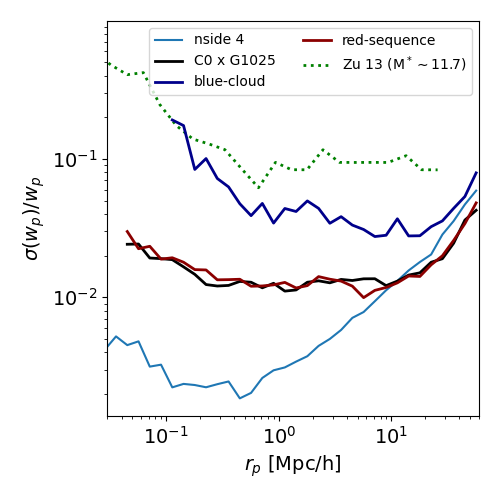
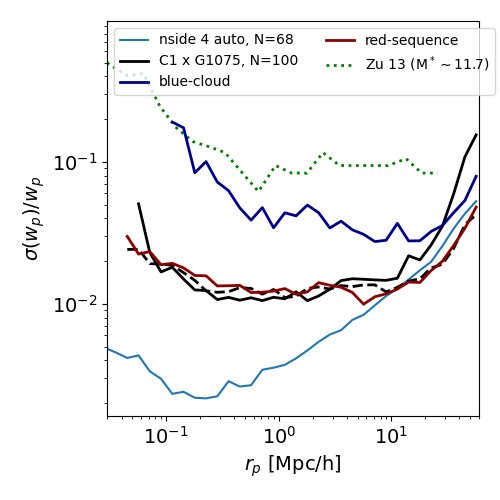
cross-correlation JK

diff --git a/python/plot_JK_wprp.py b/python/plot_JK_wprp.py
@@ -17,6 +17,8 @@ fig_dir  ='../figures/'
 
 d1025 = '../data/_ANY_10.25_Mstar_12.0_0.05_z_0.22_N_3308841_JK_wprp100'
 d1075 = '../data/_ANY_10.75_Mstar_12.0_0.05_z_0.31_N_2802710_JK_wprp100'
+dC0xG1025 = '../data/C0xG1025'
+dC1xG1075 = '../data/C1xG1075'
 
 # "C:\Users\Johan Comparat\Documents\Shared\software\st_mod_data\data"
 # export GIT_STMOD_DATA='/home/idies/workspace/erosim/software/st_mod_data'
@@ -163,7 +165,7 @@ for el in pcf_list_1075 :
 	all_wprp.append(Table.read(el)['wprp'])
 all_wprp = np.array(all_wprp)
 t_ref = Table.read(el)
-plt.plot(t_ref['rp_mid'], all_wprp.std(axis=0)/all_wprp.mean(axis=0), label='nside 4')
+plt.plot(t_ref['rp_mid'], all_wprp.std(axis=0)/all_wprp.mean(axis=0), label='nside 4 auto, N='+str(len(pcf_list_1075)))
 
 # pcf_list_1075 = np.array( glob.glob( os.path.join( d1075, '*NSIDE_08*.fits' )))
 # all_wprp = []
@@ -173,9 +175,17 @@ plt.plot(t_ref['rp_mid'], all_wprp.std(axis=0)/all_wprp.mean(axis=0), label='nsi
 # t_ref = Table.read(el)
 # plt.plot(t_ref['rp_mid'], all_wprp.std(axis=0)/all_wprp.mean(axis=0), label='nside 8')
 
+pcf_list_1075 = np.array( glob.glob( os.path.join( dC1xG1075, '*NSIDE_04*.fits' )))
+all_wprp = []
+for el in pcf_list_1075 :
+	all_wprp.append(Table.read(el)['wprp'])
+all_wprp = np.array(all_wprp)
+t_ref = Table.read(el)
+plt.plot(t_ref['rp_mid'], all_wprp.std(axis=0)/all_wprp.mean(axis=0), lw=2,  ls='solid', label='C1 x G1075, N='+str(len(pcf_list_1075)), color='black')
+
 t_wp = CxG["S1_ANY_10.75"]
 f_err = t_wp['wprp_JK_std']/t_wp['wprp_JK_mean']
-plt.plot(t_wp['rp_mid'], f_err, lw=2,  ls='solid', label='C0 x G1025', color='black')
+plt.plot(t_wp['rp_mid'], f_err, lw=2,  ls='dashed', color='black') # , label='C0 x G1025'
 t_wp = CxG["S1_BC_10.75"]
 f_err = t_wp['wprp_JK_std']/t_wp['wprp_JK_mean']
 plt.plot(t_wp['rp_mid'], f_err, lw=2,  ls='solid', label='blue-cloud', color='darkblue')
@@ -218,11 +228,19 @@ for el in pcf_list_1075 :
 	all_wprp.append(Table.read(el)['wprp'])
 all_wprp = np.array(all_wprp)
 t_ref = Table.read(el)
-plt.plot(t_ref['rp_mid'], all_wprp.std(axis=0)/all_wprp.mean(axis=0), label='nside 4')
+plt.plot(t_ref['rp_mid'], all_wprp.std(axis=0)/all_wprp.mean(axis=0), label='nside 4 auto, N='+str(len(pcf_list_1075)))
+
+pcf_list_1075 = np.array( glob.glob( os.path.join( dC0xG1025, '*NSIDE_04*.fits' )))
+all_wprp = []
+for el in pcf_list_1075 :
+	all_wprp.append(Table.read(el)['wprp'])
+all_wprp = np.array(all_wprp)
+t_ref = Table.read(el)
+plt.plot(t_ref['rp_mid'], all_wprp.std(axis=0)/all_wprp.mean(axis=0), lw=2,  ls='solid', label='C0 x G1025, N='+str(len(pcf_list_1075)), color='black')
 
 t_wp = CxG["S0_ANY_10.25"]
 f_err = t_wp['wprp_JK_std']/t_wp['wprp_JK_mean']
-plt.plot(t_wp['rp_mid'], f_err, lw=2,  ls='solid', label='C0 x G1025', color='black')
+plt.plot(t_wp['rp_mid'], f_err, lw=2,  ls='dashed', color='black') # , label='C0 x G1025'
 t_wp = CxG["S0_BC_10.25"]
 f_err = t_wp['wprp_JK_std']/t_wp['wprp_JK_mean']
 plt.plot(t_wp['rp_mid'], f_err, lw=2,  ls='solid', label='blue-cloud', color='darkblue')

diff --git a/python/all_galaxies/compute_wprp_Files_MaskHpx_MstarDEP_cross_zSel_TrueJK.py b/python/all_galaxies/compute_wprp_Files_MaskHpx_MstarDEP_cross_zSel_TrueJK.py
@@ -202,7 +202,7 @@ NSIDE = NSIDE_val
 print('='*100)
 print(NSIDE)
 NSIDE_str = str(NSIDE).zfill(2)
-for jk_i in np.arange(100):
+for jk_i in np.arange(1000):
 	p_2_2PCF = os.path.join(JK_dir, PCF_basename + '_NSIDE_' + NSIDE_str + '_J_'+str(jk_i).zfill(4) + '.fits')
 	print(jk_i, p_2_2PCF, os.path.isfile(p_2_2PCF))
 	if os.path.isfile(p_2_2PCF) == False:
